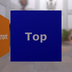
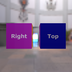
Move 04 back

diff --git a/Source/ModelGroups/Animation_NodeMisc.cs b/Source/ModelGroups/Animation_NodeMisc.cs
@@ -245,7 +245,8 @@ namespace AssetGenerator
             {
                 // Creates a second node based on the existing node, and applies a transform to help differentiate them.
                 nodes.Add(DeepCopy.CloneObject(nodes[0]));
-                nodes[0].Translation = new Vector3(-0.8f, 0.0f, 0.0f);
+                nodes[0].Translation = new Vector3(-0.4f, 0.0f, -1.0f);
+                nodes[1].Translation = new Vector3(0.4f, 0.0f, -1.0f);
 
                 // The first channel is already added as a common property.
                 channels.Add(new Runtime.AnimationChannel());
